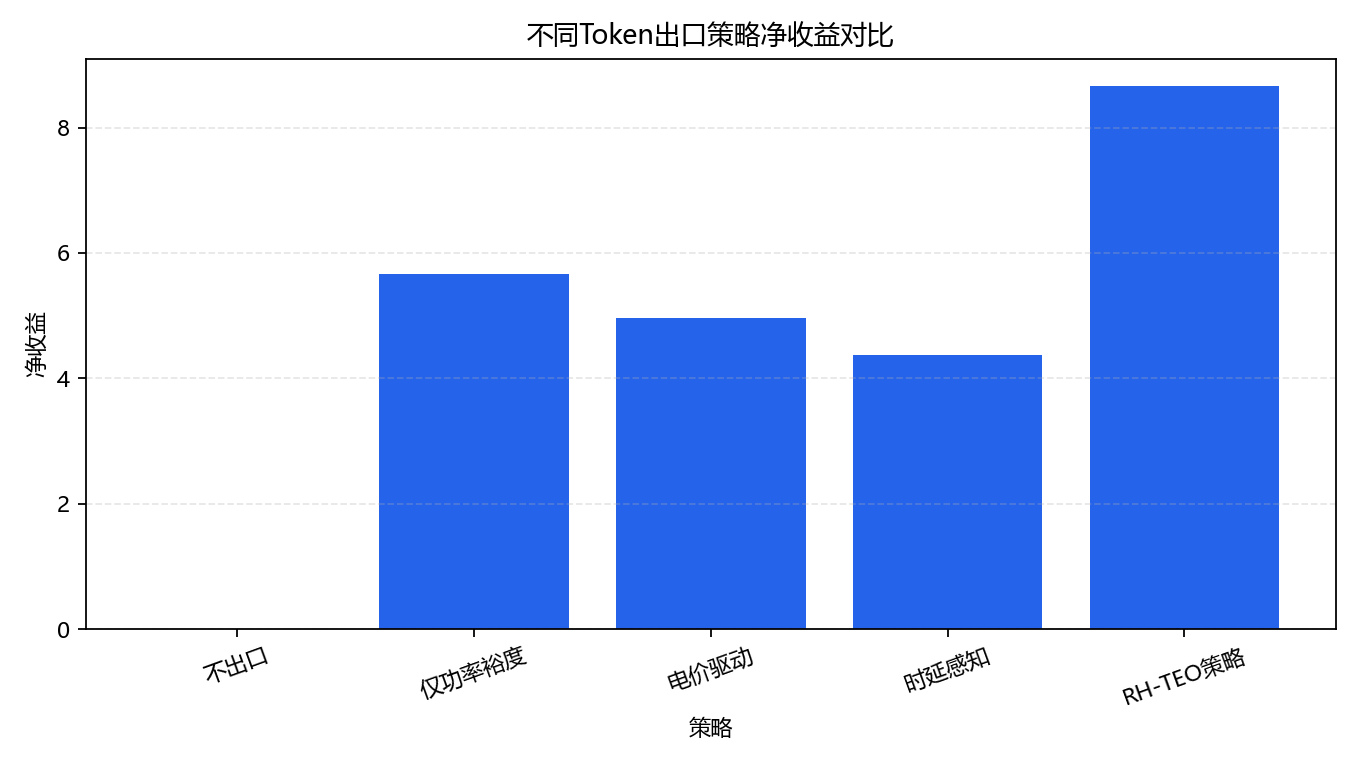
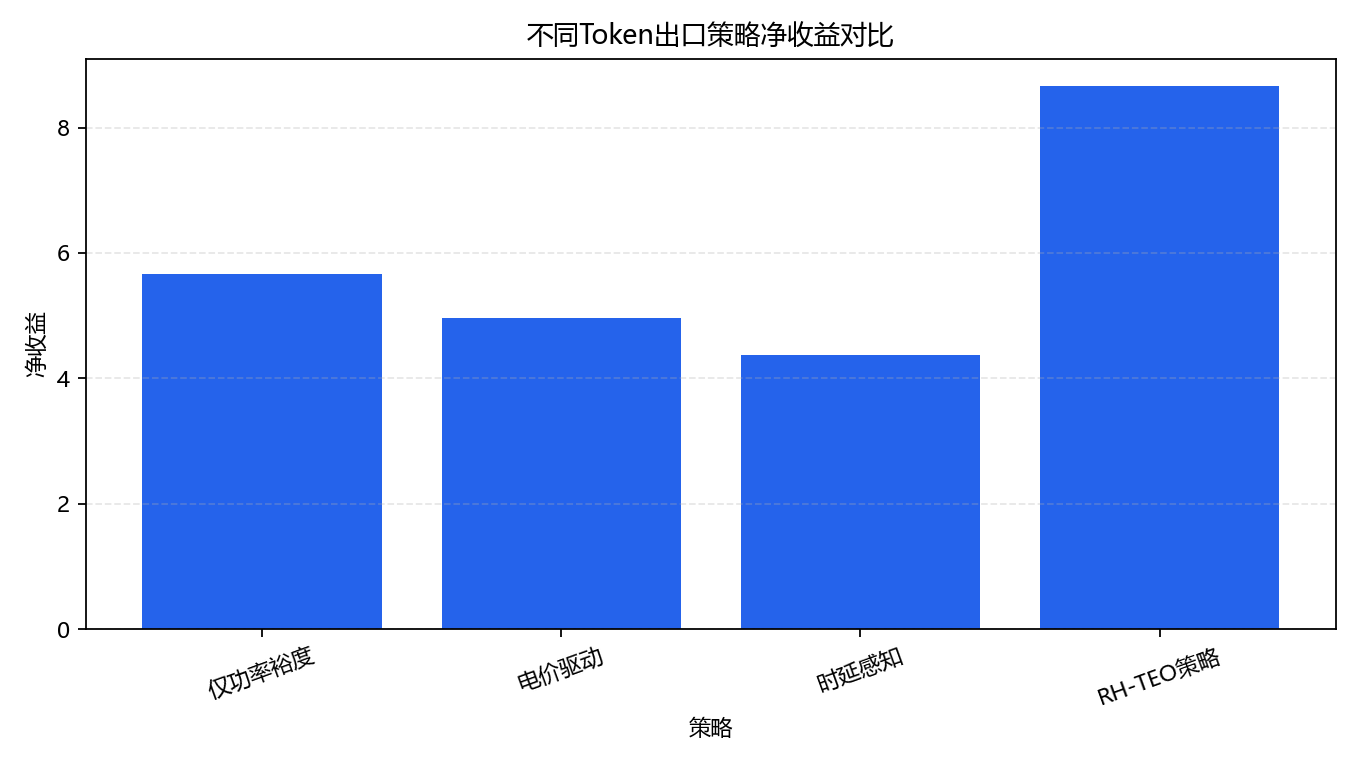
更改图表

diff --git a/experiments/exp_token_export.py b/experiments/exp_token_export.py
@@ -41,6 +41,16 @@ PARAMETER_LABELS = {
 }
 
 
+def _plot_ready_summary(summary: pd.DataFrame) -> pd.DataFrame:
+    """Exclude the zero-export baseline from main comparison figures."""
+    return summary[summary["strategy"] != "No-Export"].copy()
+
+
+def _plot_ready_region(region_results: pd.DataFrame) -> pd.DataFrame:
+    """Exclude the zero-export baseline from main region-export figures."""
+    return region_results[region_results["strategy"] != "No-Export"].copy()
+
+
 def _token_capacity(fusion_df: pd.DataFrame, config: dict) -> pd.Series:
     return fusion_df["power_margin_norm"].clip(lower=0.0) * float(config["token_per_margin_unit"])
 
@@ -399,6 +409,8 @@ def _plot_sensitivity(sensitivity: pd.DataFrame, output_dir: Path) -> None:
 
 
 def _plot_outputs(summary: pd.DataFrame, hourly_results: pd.DataFrame, region_results: pd.DataFrame, sensitivity: pd.DataFrame, output_dir: Path) -> None:
+    plot_summary = _plot_ready_summary(summary)
+    plot_region_results = _plot_ready_region(region_results)
     capacity_df = hourly_results[hourly_results["strategy"] == "RH-TEO"][["hour", "token_capacity"]].copy()
     save_line_plot(
         capacity_df,
@@ -409,9 +421,9 @@ def _plot_outputs(summary: pd.DataFrame, hourly_results: pd.DataFrame, region_re
         xlabel="小时",
         ylabel="Token产出能力",
     )
-    _plot_region_export(region_results, output_dir)
-    _plot_bar(summary, "strategy", "net_token_profit", output_dir / "token_profit_comparison.png", "不同Token出口策略净收益对比", "净收益")
-    _plot_bar(summary, "strategy", "avg_cross_timezone_delay", output_dir / "cross_timezone_latency.png", "不同策略跨时区服务时延对比", "平均时延/h")
+    _plot_region_export(plot_region_results, output_dir)
+    _plot_bar(plot_summary, "strategy", "net_token_profit", output_dir / "token_profit_comparison.png", "不同Token出口策略净收益对比", "净收益")
+    _plot_bar(plot_summary, "strategy", "avg_cross_timezone_delay", output_dir / "cross_timezone_latency.png", "不同Token出口策略跨时区服务时延对比", "平均时延/h")
 
     # Rebuild the curve from RH-TEO rows so the x-axis is the fused margin.
     rh_rows = hourly_results[hourly_results["strategy"] == "RH-TEO"].sort_values("token_capacity")
@@ -510,6 +522,9 @@ def run_token_export(
         f"最优策略净收益: {best['net_token_profit']:.6f}",
         f"RH-TEO总出口Token量: {rh_row['total_export_tokens']:.2f}",
         f"RH-TEO SLA违约率: {rh_row['token_sla_violation_rate']:.6f}",
+        "",
+        "“不出口”作为零出口基准保留在结果表中，不参与主要图表展示；主要图表比较的是实际发生 Token 出口的策略。",
+        "“不出口”无跨时区服务时延，因此不参与跨时区服务时延图比较。",
         "",
         "生成图表: hourly_token_capacity, token_export_by_region, token_profit_comparison, cross_timezone_latency, power_margin_token_capacity_timeseries, power_to_token_curve, rh_teo_allocation_curve, token_sensitivity。",
     ]

diff --git a/docs/figure_table_list.md b/docs/figure_table_list.md
@@ -29,5 +29,7 @@
 - 机房任务分布：`outputs/nbsdc_fusion/room_task_distribution.csv`
 - Token 出口区域配置：`config/token_export.yaml`
 - Token 出口策略对比结果：`outputs/token_export/token_export_results.csv`
-- Token 出口策略对比中文展示版：`outputs/token_export/token_export_results_cn.csv`
+- Token 出口策略对比中文展示版：`outputs/token_export/token_export_results_cn.csv`，包含“不出口”零出口基准。
 - 参数敏感性结果：`outputs/token_export/token_sensitivity_results.csv`
+
+说明：主要图表已排除“不出口”基准，以突出实际发生 Token 出口的策略之间的差异；“不出口”仅保留在结果表中用于对照。

diff --git a/README.md b/README.md
@@ -70,6 +70,8 @@ python scripts/prepare_uploaded_case_dataset.py --arrival-time-mode raw_step
 - `token_sensitivity.png`
 - `power_to_token_curve.png`，该图为线性转换关系，仅作为辅助检查，不建议作为核心论文图。
 
+说明：`token_export_results.csv` 和 `token_export_results_cn.csv` 保留“不出口”零出口基准；主要柱状图和地区出口图已排除该基准，以突出实际发生 Token 出口的策略差异。
+
 ## 三层融合模型
 
 当前融合模型输出以下关键指标：
